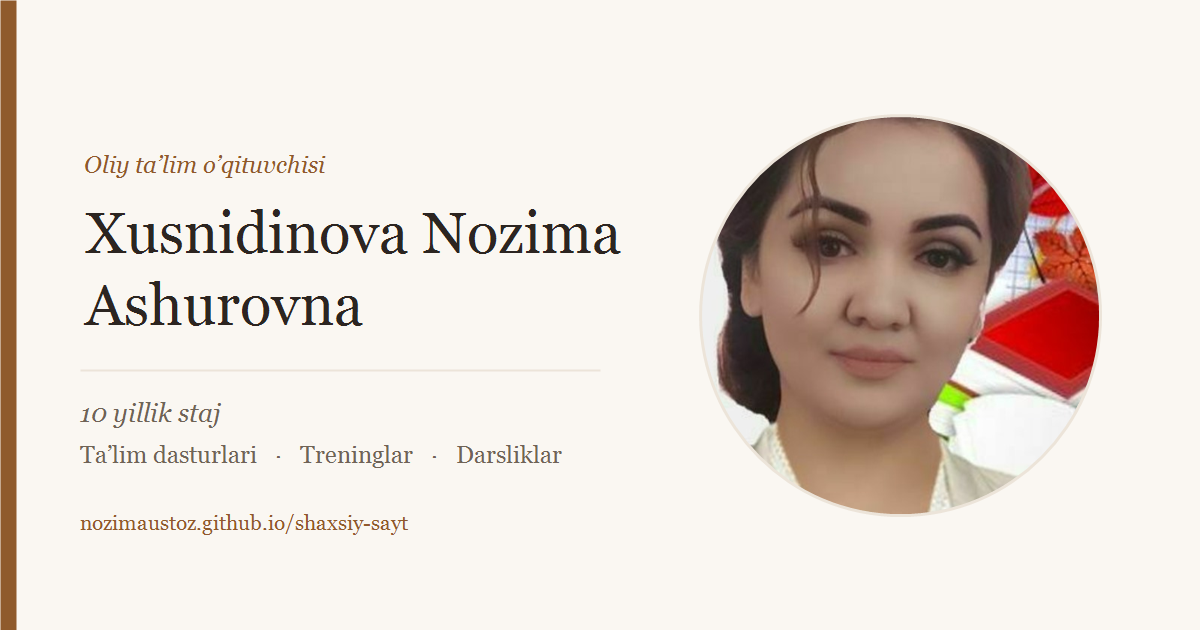
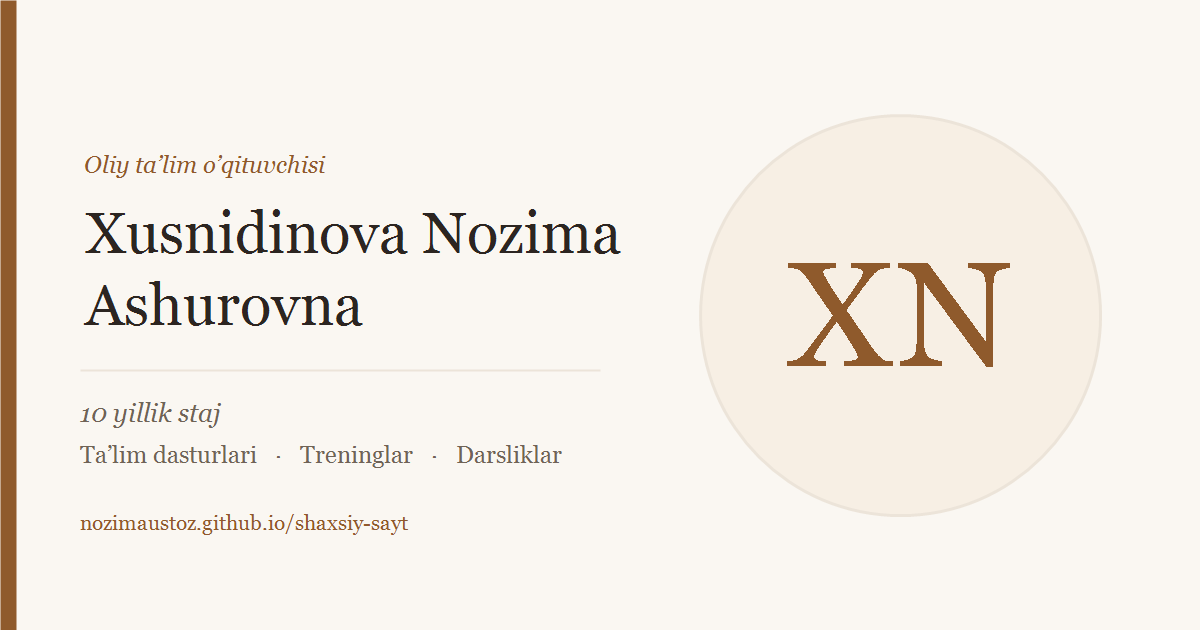
Rasm olib tashlandi, o'rniga inisiallar
- Hero'dagi surat olib tashlandi, "XN" inisiallari ko'rsatiladi
- script.js: rasm elementi yo'qligini tekshiradi
- og-image inisiallar bilan qayta yasaldi
- images.jfif .gitignore ga qo'shildi (boshqa manbadan olingan surat)

Changed region(s): [[0.5858, 0.181, 0.925, 0.8143]]

diff --git a/script.js b/script.js
@@ -56,10 +56,13 @@ if (harakatOchiq && 'IntersectionObserver' in window) {
 }
 
 // ===== Rasm hali qo'yilmagan bo'lsa, inisiallar ko'rsatiladi =====
+// Rasm HTML'dan butunlay olib tashlangan bo'lishi ham mumkin — shuning uchun tekshiriladi
 var photo = document.getElementById('photo');
-photo.addEventListener('error', function () {
-  photo.parentElement.classList.add('no-image');
-});
-if (photo.complete && photo.naturalWidth === 0) {
-  photo.parentElement.classList.add('no-image');
+if (photo) {
+  photo.addEventListener('error', function () {
+    photo.parentElement.classList.add('no-image');
+  });
+  if (photo.complete && photo.naturalWidth === 0) {
+    photo.parentElement.classList.add('no-image');
+  }
 }

diff --git a/index.html b/index.html
@@ -57,8 +57,10 @@
       <a class="cta" href="#aloqa">Bog'lanish</a>
     </div>
 
-    <div class="hero-photo">
-      <img id="photo" src="images/nozima-hero.jpg" alt="Xusnidinova Nozima Ashurovna">
+    <!-- Hozircha rasmsiz — inisiallar ko'rsatiladi.
+         Surat qo'shish uchun: quyidagi qatorni izohdan chiqaring va "no-image" sinfini olib tashlang
+         <img id="photo" src="images/nozima-hero.jpg" alt="Xusnidinova Nozima Ashurovna"> -->
+    <div class="hero-photo no-image">
       <div class="photo-fallback" id="photoFallback">XN</div>
     </div>
   </section>
